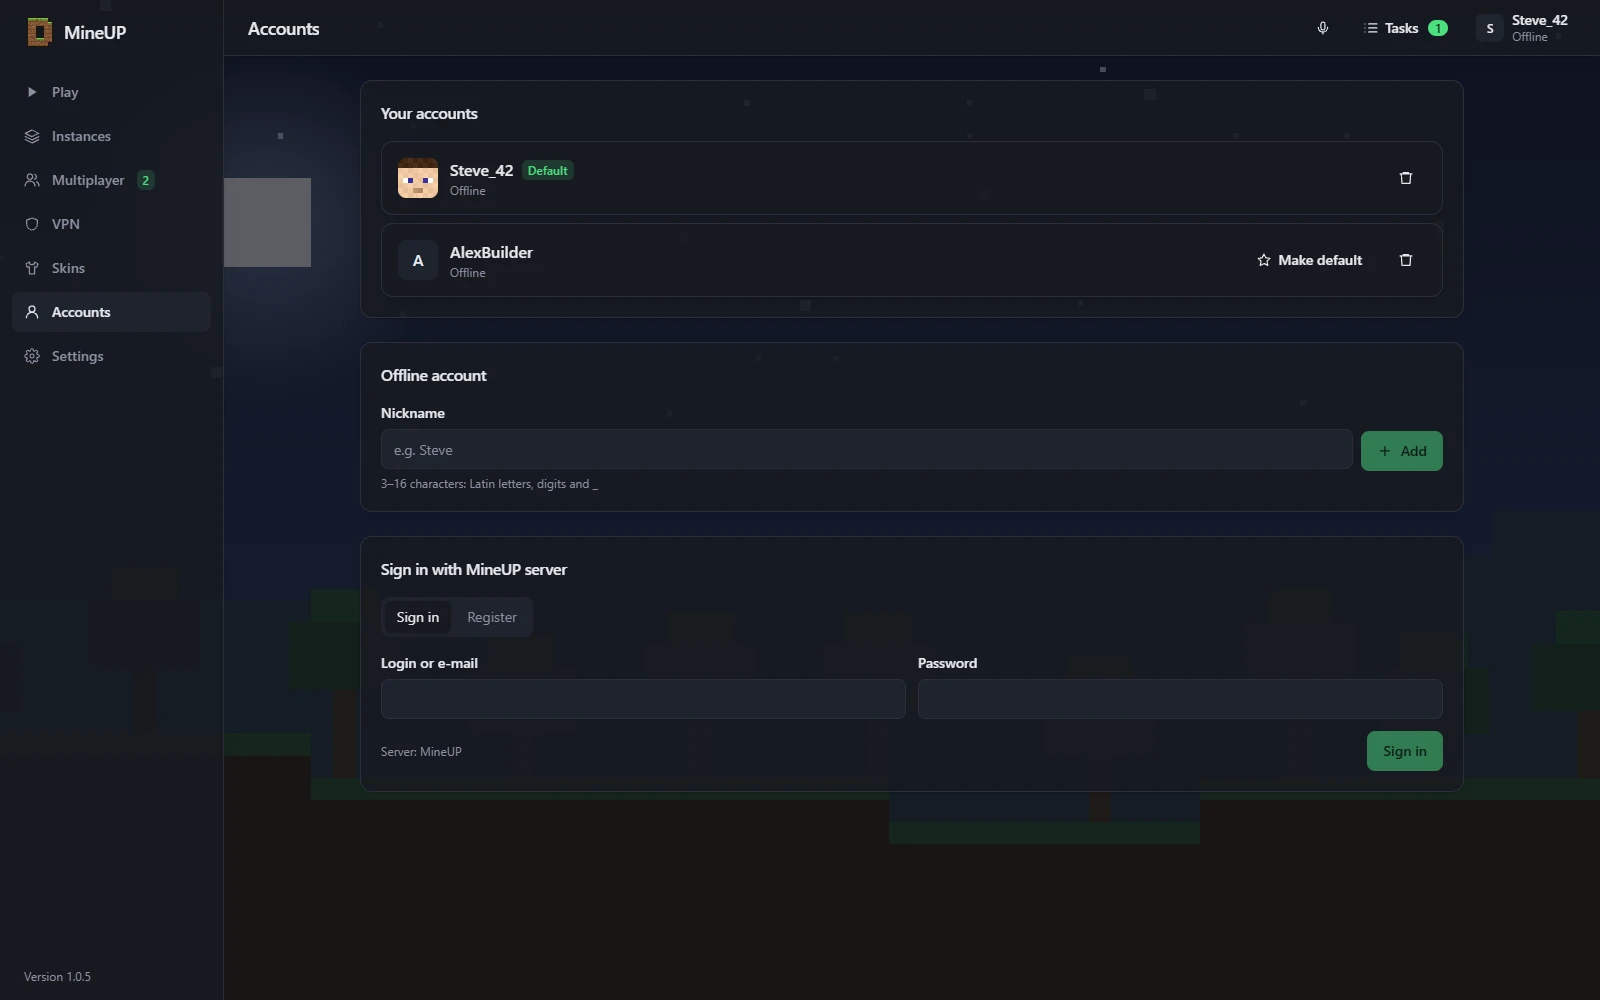
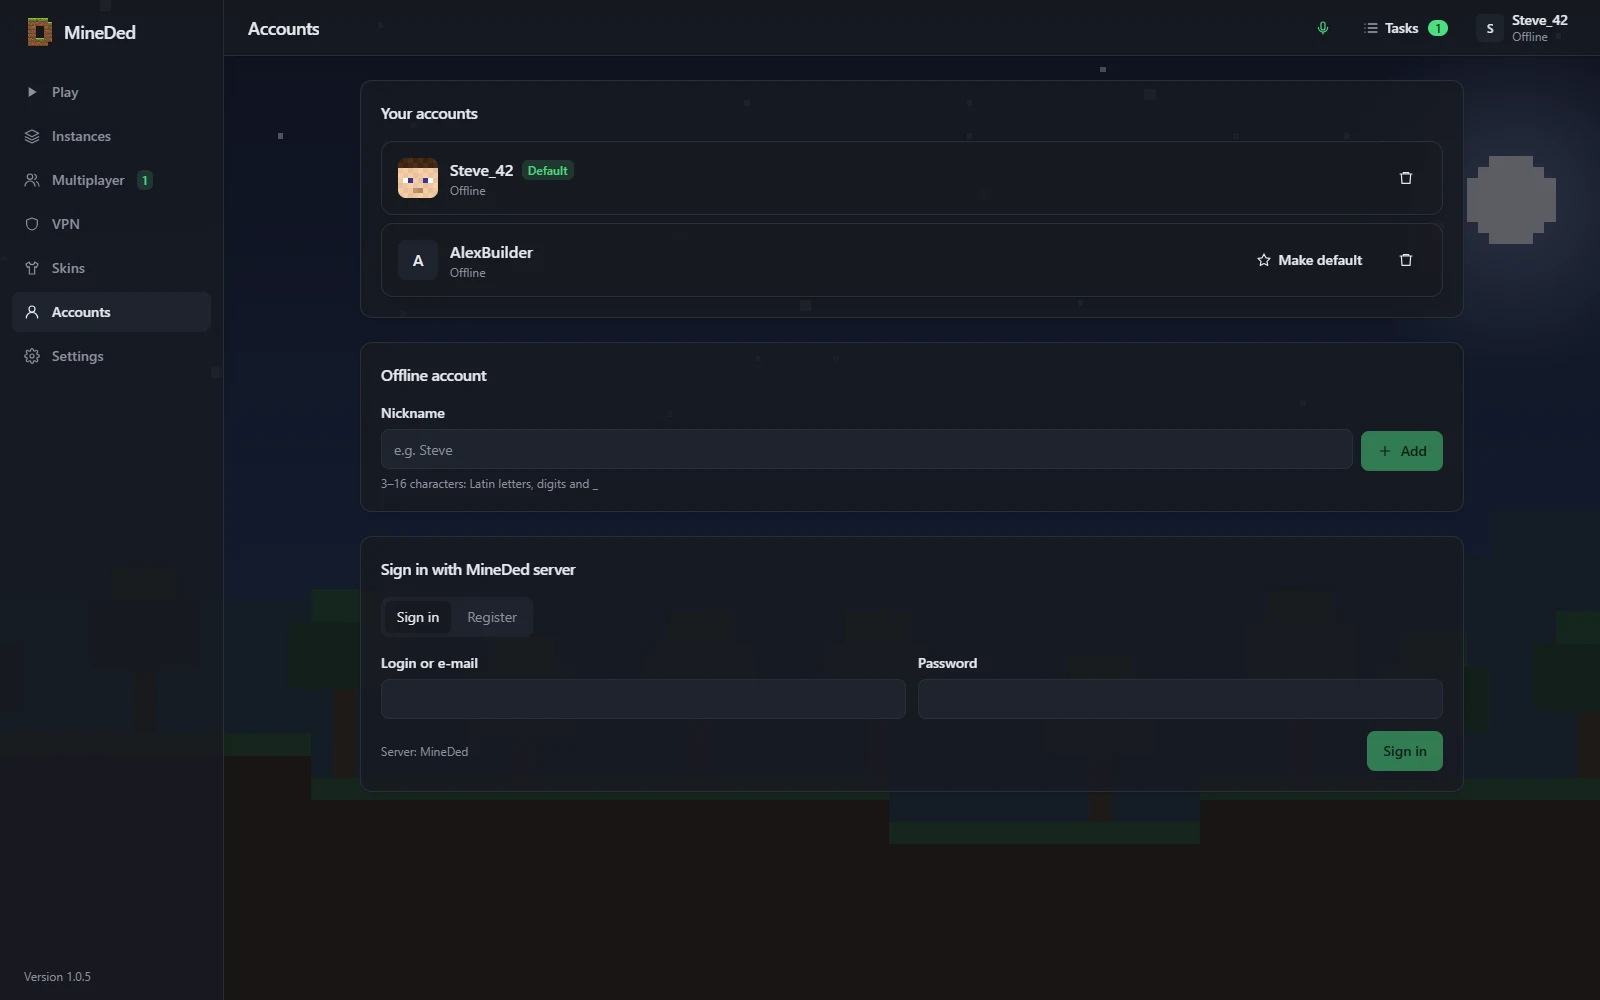
ui(site): recapture screenshots and OG image as MineDed, round moon off the sidebar, hide borderless hint in demo

Changed region(s): [[0.125, 0.155, 0.2188, 0.279], [0.9062, 0.155, 1.0, 0.248], [0.3125, 0.558, 0.3438, 0.589]]

diff --git a/apps/desktop/src/features/appearance/backgrounds.tsx b/apps/desktop/src/features/appearance/backgrounds.tsx
@@ -133,7 +133,7 @@ const SCENES: Record<BackgroundId, Scene> = {
   },
   forest: {
     sky: ["#0b1330", "#1a2a55", "#2c4068"],
-    orb: { x: 64, y: 40, s: 16, color: "#e8ecf5", glow: "#9fb4e0" },
+    orb: { x: 288, y: 36, s: 16, color: "#e8ecf5", glow: "#9fb4e0" },
     stars: "#dfe6ff",
     far: [{ color: "#1d3346", base: 74, amp: 12, step: 8, seed: 2 }],
     near: [{ color: "#2a1d14", cap: "#1f4a2a", capH: 4, base: 40, amp: 8, step: 8, seed: 7 }],
@@ -163,7 +163,7 @@ const SCENES: Record<BackgroundId, Scene> = {
   },
   ocean: {
     sky: ["#5fb7f2", "#a7dcf7", "#d8f1fb"],
-    orb: { x: 70, y: 36, s: 18, color: "#fff6c7", glow: "#ffe58a" },
+    orb: { x: 284, y: 36, s: 18, color: "#fff6c7", glow: "#ffe58a" },
     clouds: "#ffffff",
     far: [{ color: "#7fb08a", cap: "#e9d9a1", capH: 3, base: 66, amp: 6, step: 8, seed: 6 }],
     near: [
@@ -264,6 +264,18 @@ function Stars({ color, seed }: { color: string; seed: number }) {
   );
 }
 
+/** Blocky disc (three stacked bands) so the sun/moon does not read as a flat square. */
+function Orb({ x, y, s, color }: { x: number; y: number; s: number; color: string }) {
+  const q = s / 4;
+  return (
+    <g fill={color}>
+      <rect x={x - s / 2} y={y - q} width={s} height={2 * q} />
+      <rect x={x - s / 2 + q / 2} y={y - s / 2 + q / 2} width={s - q} height={s - q} />
+      <rect x={x - q} y={y - s / 2} width={2 * q} height={s} />
+    </g>
+  );
+}
+
 const svgProps = {
   viewBox: VIEW,
   preserveAspectRatio: "xMidYMax slice",
@@ -304,7 +316,7 @@ export function BackgroundScene({ id, animate = false, className = "" }: { id: B
         {scene.orb ? (
           <>
             <rect x={scene.orb.x - scene.orb.s * 2} y={scene.orb.y - scene.orb.s * 2} width={scene.orb.s * 4} height={scene.orb.s * 4} fill={`url(#${glow})`} />
-            <rect x={scene.orb.x - scene.orb.s / 2} y={scene.orb.y - scene.orb.s / 2} width={scene.orb.s} height={scene.orb.s} fill={scene.orb.color} />
+            <Orb {...scene.orb} />
           </>
         ) : null}
       </svg>

diff --git a/site/scenes.js b/site/scenes.js
@@ -104,7 +104,7 @@
     },
     forest: {
       sky: ["#0b1330", "#1a2a55", "#2c4068"],
-      orb: { x: 64, y: 40, s: 16, color: "#e8ecf5", glow: "#9fb4e0" },
+      orb: { x: 288, y: 36, s: 16, color: "#e8ecf5", glow: "#9fb4e0" },
       stars: "#dfe6ff",
       far: [{ color: "#1d3346", base: 74, amp: 12, step: 8, seed: 2 }],
       near: [{ color: "#2a1d14", cap: "#1f4a2a", capH: 4, base: 40, amp: 8, step: 8, seed: 7 }],
@@ -131,7 +131,7 @@
     },
     ocean: {
       sky: ["#5fb7f2", "#a7dcf7", "#d8f1fb"],
-      orb: { x: 70, y: 36, s: 18, color: "#fff6c7", glow: "#ffe58a" },
+      orb: { x: 284, y: 36, s: 18, color: "#fff6c7", glow: "#ffe58a" },
       clouds: "#ffffff",
       far: [{ color: "#7fb08a", cap: "#e9d9a1", capH: 3, base: 66, amp: 6, step: 8, seed: 6 }],
       near: [
@@ -226,7 +226,9 @@
     if (sc.orb) {
       var o = sc.orb;
       back += rect(o.x - o.s * 2, o.y - o.s * 2, o.s * 4, o.s * 4, "url(#glow-" + uid + ")") +
-        rect(o.x - o.s / 2, o.y - o.s / 2, o.s, o.s, o.color);
+        rect(o.x - o.s / 2, o.y - o.s / 4, o.s, o.s / 2, o.color) +
+        rect(o.x - o.s * 3 / 8, o.y - o.s * 3 / 8, o.s * 3 / 4, o.s * 3 / 4, o.color) +
+        rect(o.x - o.s / 4, o.y - o.s / 2, o.s / 2, o.s, o.color);
     }
     var html = svg(back);
     if (sc.clouds) {

diff --git a/site/index.html b/site/index.html
@@ -28,7 +28,7 @@
 <meta name="twitter:description" content="Моды Modrinth, Fabric и Forge, игра с другом по коду комнаты без сервера и Хамачи, голосовой чат и встроенный VPN. Windows и Linux.">
 <meta name="twitter:image" content="https://mineded.dedseckms.ru/og.png">
 <link rel="icon" href="logo.svg" type="image/svg+xml">
-<link rel="stylesheet" href="style.css?v=4">
+<link rel="stylesheet" href="style.css?v=5">
 <script type="application/ld+json">
 {
   "@context": "https://schema.org",
@@ -205,7 +205,7 @@
   <span class="muted small" data-i18n="disclaimer">Не является официальным продуктом Minecraft. Не связан с Mojang или Microsoft.</span>
 </footer>
 
-<script src="scenes.js?v=4"></script>
-<script src="app.js?v=4"></script>
+<script src="scenes.js?v=5"></script>
+<script src="app.js?v=5"></script>
 </body>
 </html>

diff --git a/apps/desktop/src/features/voice/VoicePanel.tsx b/apps/desktop/src/features/voice/VoicePanel.tsx
@@ -1,6 +1,7 @@
 import { useState } from "react";
 import { useTranslation } from "react-i18next";
 
+import { isDemo } from "../../api/client";
 import type { Peer } from "../../bindings";
 import {
   useSetPeerMuted,
@@ -191,7 +192,8 @@ export function VoiceControls() {
       <div className="flex flex-col gap-1.5 border-t border-border pt-3">
         <OverlayButton />
         <p className="text-xs text-muted">{t(system.data?.wayland ? "voice.overlay.hintWayland" : "voice.overlay.hint")}</p>
-        <BorderlessHelper />
+        {/* The showcase leaves room for the participants list. */}
+        {isDemo ? null : <BorderlessHelper />}
       </div>
     </Section>
   );
